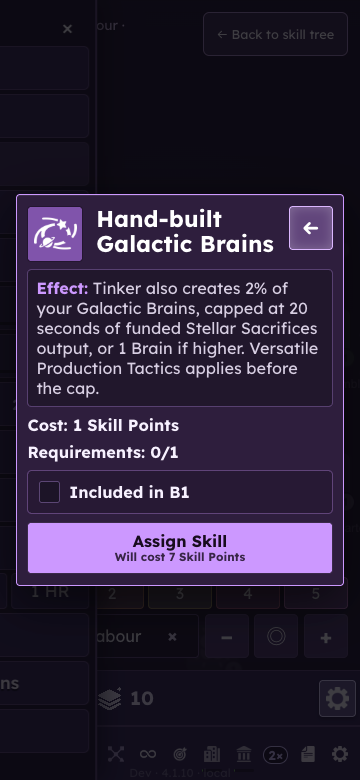
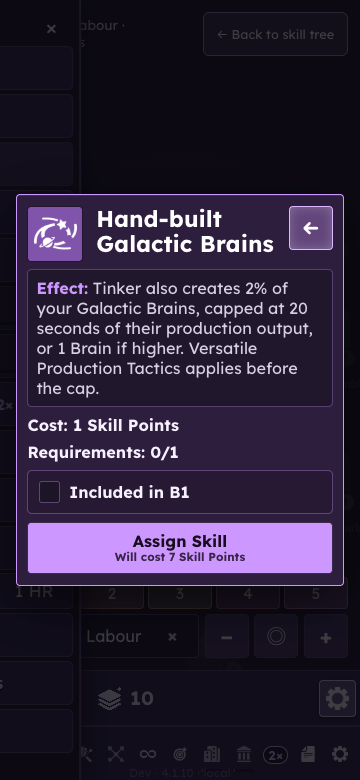
Describe Galactic Brain Tinker cap using production output

diff --git a/src/ui/gameplay/skills/manualFacilityMessages.ts b/src/ui/gameplay/skills/manualFacilityMessages.ts
@@ -5,7 +5,7 @@ import { basicFacilityMessages as facilities } from '../facilities/messages'
 export const manualFacilityMessages = defineMessages({
   name: { id: 'skills.manualFacility.name', defaultMessage: 'Hand-built {facility}' },
   effect: { id: 'skills.manualFacility.effect', defaultMessage: 'Tinker also creates 2% of your {facility}, capped at 20 seconds of their incoming facility production. Versatile Production Tactics applies.' },
-  brainEffect: { id: 'skills.manualFacility.brain-effect', defaultMessage: 'Tinker also creates 2% of your Galactic Brains, capped at 20 seconds of funded Stellar Sacrifices output, or 1 Brain if higher. Versatile Production Tactics applies before the cap.' },
+  brainEffect: { id: 'skills.manualFacility.brain-effect', defaultMessage: 'Tinker also creates 2% of your Galactic Brains, capped at 20 seconds of their production output, or 1 Brain if higher. Versatile Production Tactics applies before the cap.' },
 })
 
 export const manualFacilityPresentation = [

diff --git a/docs/qa/manual-facility-augments-2026-09-27.md b/docs/qa/manual-facility-augments-2026-09-27.md
@@ -44,7 +44,7 @@ these are not included in passive per-second production.
   capped at 20 seconds of their incoming facility production. Versatile Production
   Tactics applies.**
 - Galactic Brains: **Tinker also creates 2% of your Galactic Brains, capped at
-  20 seconds of funded Stellar Sacrifices output, or 1 Brain if higher.
+  20 seconds of their production output, or 1 Brain if higher.
   Versatile Production Tactics applies before the cap.**
 - Hand Assembly changes only “Replaces Assembly Line tinkering.” to
   **“Keeps Assembly Line tinkering.”**
